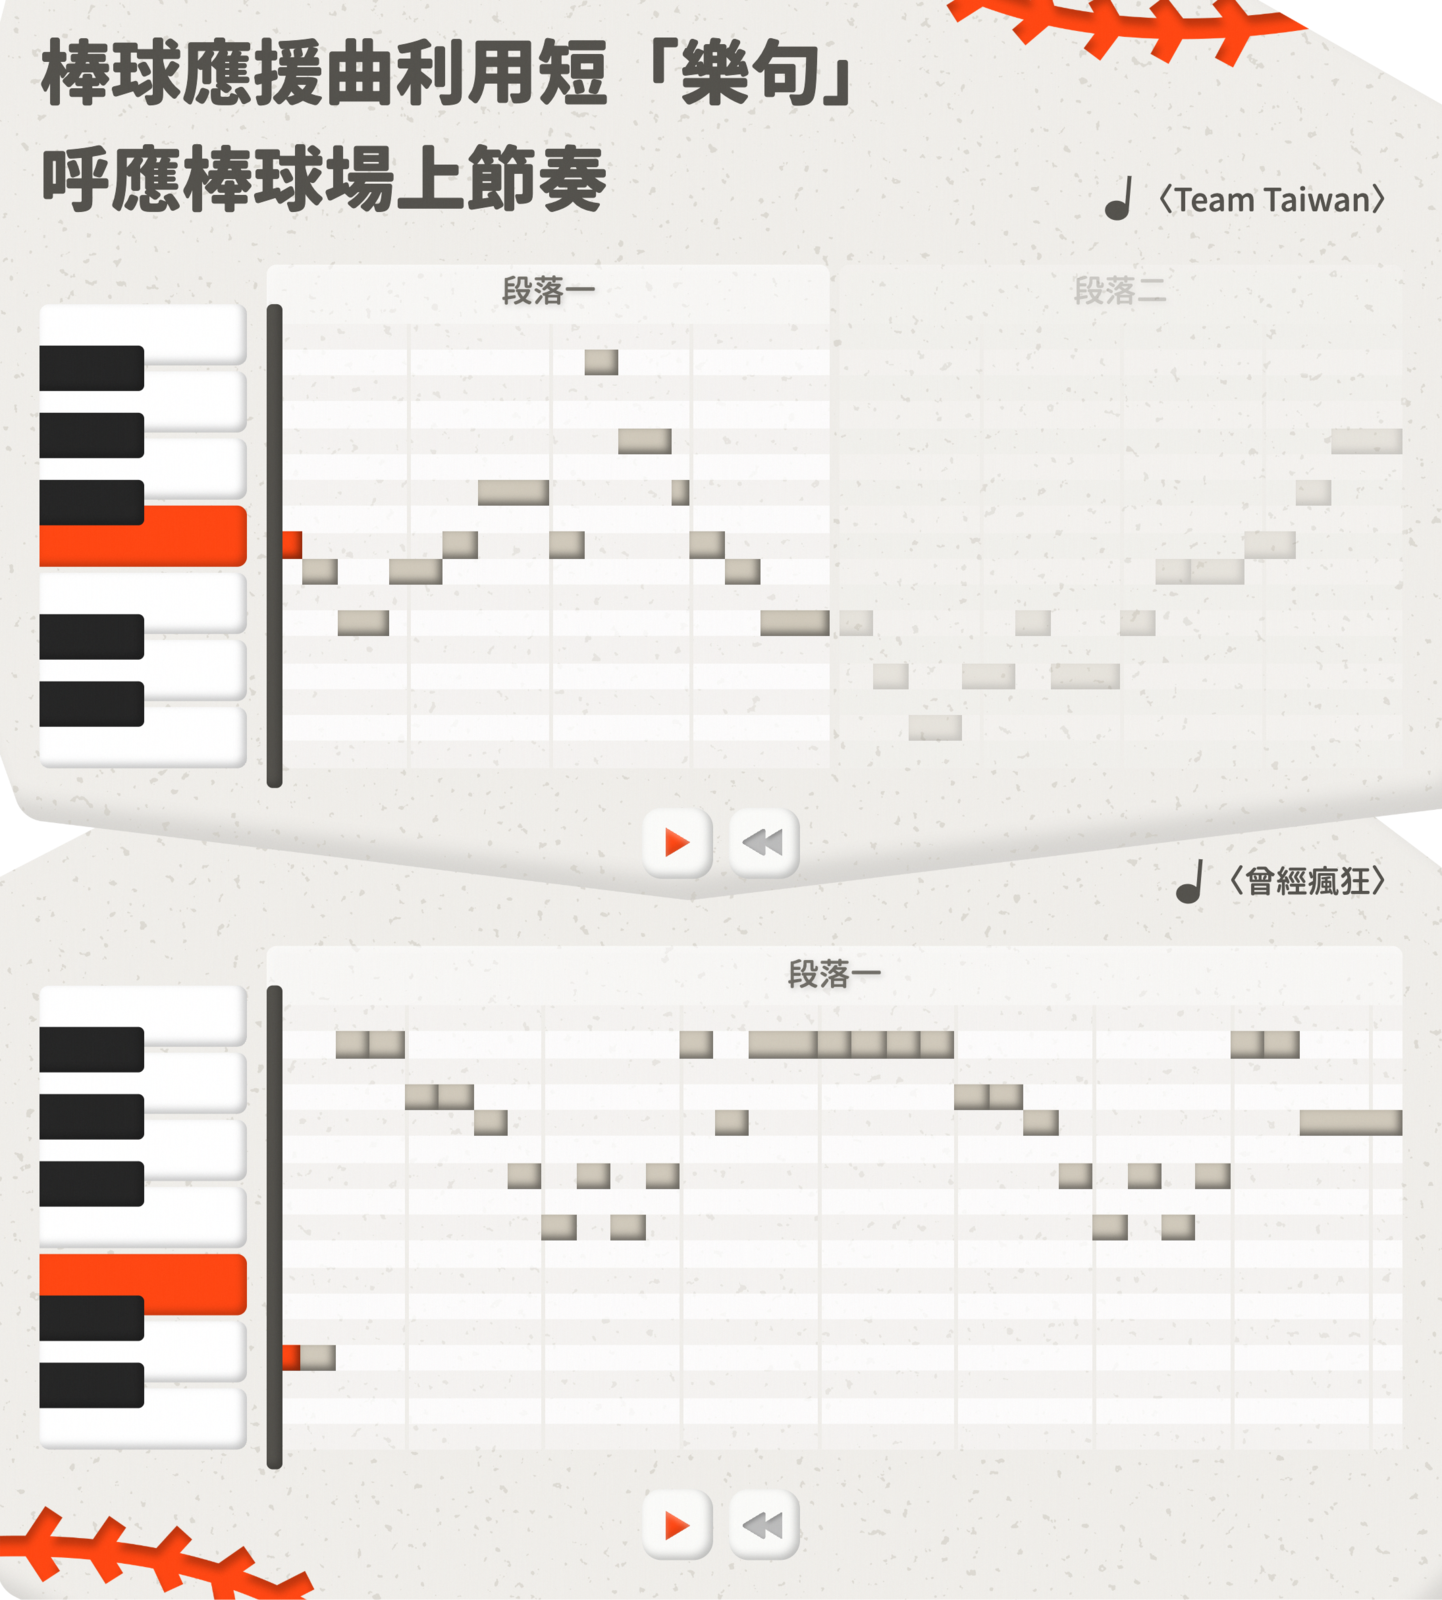
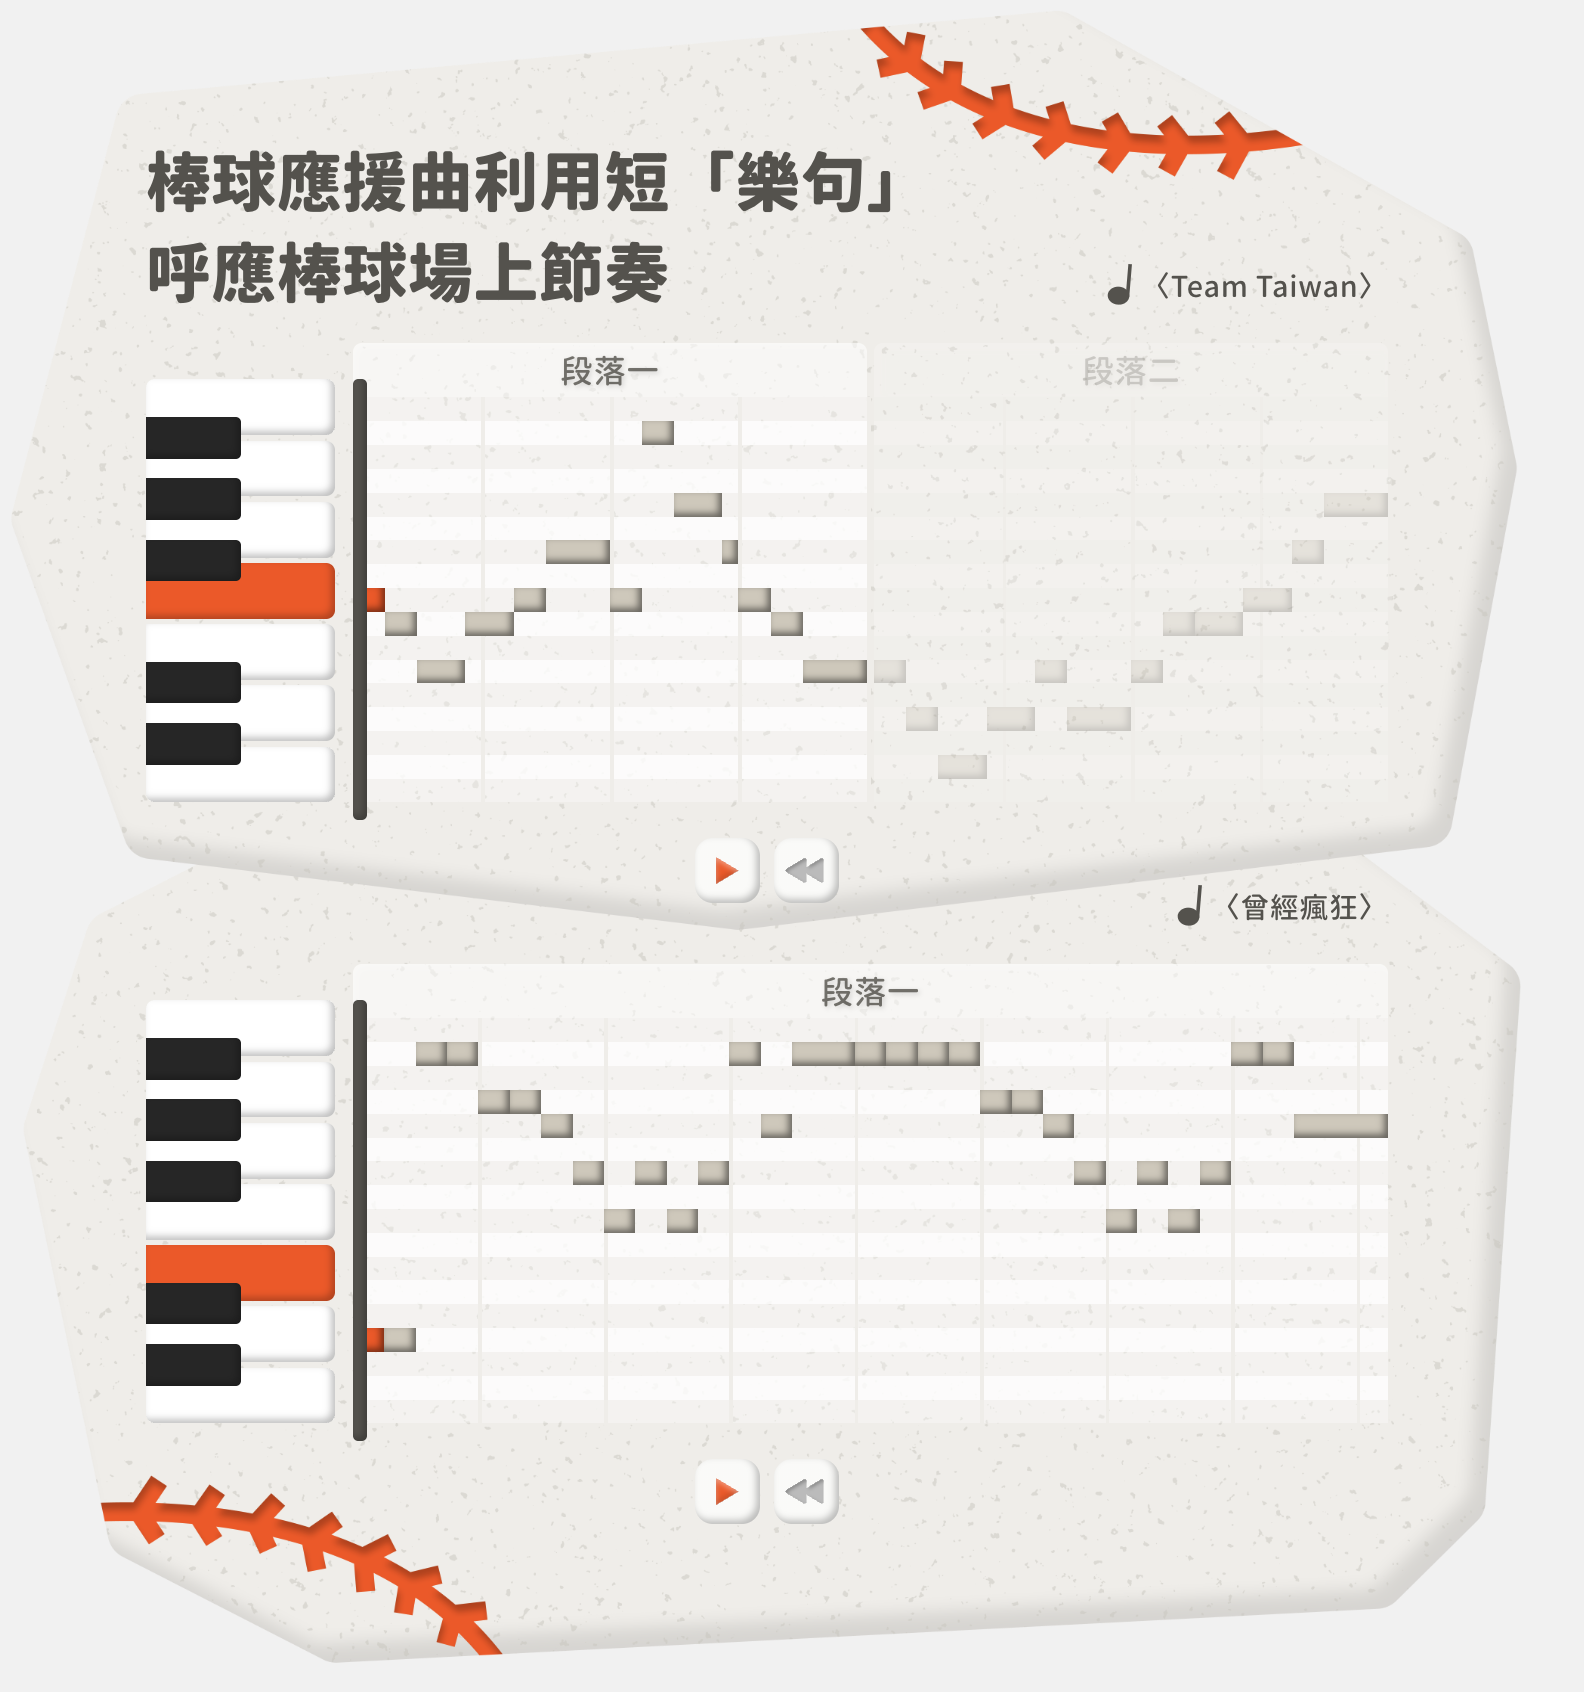
fix: wordings, grammar and copies

diff --git a/src/data/projects.ts b/src/data/projects.ts
@@ -7,7 +7,7 @@ export const projects: {
   {
     title: 'What’s wrong with the “traffic circles” in Taiwan?',
     description:
-      'I clustered millions of official accident records to recreate what failed at each roundabout, so we can build more "roundabouts", less "traffic circles".',
+      'Using the DBSCAN algorithum to cluster thousands of official accident records, I tried to recreate what goes wrong at each roundabout, so we can build more roundabouts, fewer “traffic circles”.',
     links: [
       {
         title:
@@ -31,9 +31,9 @@ export const projects: {
     imageFolder: 'roundabouts',
   },
   {
-    title: `Tracking PLA drills and Taiwan's preparedness`,
+    title: `Tracking PLA drills and Taiwan’s preparedness`,
     description:
-      "We've collected millions of AIS records and years of PLA activities around Taiwan, helping us understand what’s happening around us during those mysterious drills.",
+      'We’ve collected millions of AIS records and years of PLA activities around Taiwan, helping us rebuild the Hong Tai’s track before it cut Taiwan’s undersea cable and understand what’s happening around us during those mysterious drills.',
     links: [
       {
         title:
@@ -62,8 +62,8 @@ export const projects: {
     imageFolder: 'military',
   },
   {
-    title: `What makes a cheering song sounds "Taiwan"?`,
-    description: `An experiment to use embedding models to understand music. We've created interactive components so that plays and visualize what changes in the music's groove affect the lisening experience.`,
+    title: `What makes a cheering song sound “Taiwan”?`,
+    description: `An experiment in using embedding models to understand music. We’ve created interactive components that play audio and visualize how changes in the music’s groove affect the listening experience.`,
     links: [
       {
         title:
@@ -75,9 +75,9 @@ export const projects: {
     imageFolder: 'baseball-music',
   },
   {
-    title: `Let's all commute more safely.`,
+    title: `Let’s all commute more safely.`,
     description:
-      'Paying closer attention to our day-to-day life, from newly built, "engineering feat" bridge to your local elemetary schools.',
+      'Paying closer attention to our day-to-day life, from a newly built “engineering feat” bridge to your local elementary schools.',
     links: [
       {
         title:
@@ -108,7 +108,7 @@ export const projects: {
   {
     title: 'Investigating “remote upstream” rivers.',
     description:
-      '(not git repos) Mapping potential drinking water intakes pollution by spatial cross-matching river, nearby factories and past penalty records.',
+      '(not git repos) Mapping potential pollution of drinking water intakes by spatially cross-matching rivers, nearby factories, and past penalty records.',
     links: [
       {
         title: '你家喝的自來水從哪來？乾淨嗎？從基隆嚴重油汙事件開始的全台調查',
@@ -142,8 +142,8 @@ export const projects: {
     imageFolder: 'water-pollution',
   },
   {
-    title: `What does your phone do that you don't know?`,
-    description: `As a privacy conceus person myself, we've used mitmproxy to capture the network requests from three major mobile map apps, including Chinese "AMAP", to know what tracking information each is sending?`,
+    title: `What does your phone do that you don’t know?`,
+    description: `As a privacy-conscious person, I wanted to know what map apps send home. We ran mobile navigation apps through mitmproxy on a small roadtrip around Taipei.`,
     links: [
       {
         title:
@@ -167,8 +167,8 @@ export const projects: {
     imageFolder: 'amap',
   },
   {
-    title: 'Disaster Response Toolkit for Taiwanese Citizens',
-    description: `I've built iCanHelp app, a collection of helpful tools for disaster preparedness. Built with full-stack Next.js with native bundles using Expo.js, during my time at Forward Alliance.`,
+    title: 'A disaster response toolkit for Taiwan.',
+    description: `I built iCanHelp app, a collection of helpful tools for disaster preparedness, during my time at Forward Alliance. Full-stack Next.js with native bundles using Expo.js.`,
     links: [
       {
         title:
@@ -185,20 +185,20 @@ export const projects: {
     imageFolder: 'icanhelp',
   },
   {
-    title: 'Hackathon Project: Carbon Notebook',
-    description: `We built a microservice that help people recognize their carbon footprint and how can they save more from their daily lives, which is also embeddable within Taipei's citizen app "Town Pass," in a 24 hour hackathon and won second place.`,
+    title: 'Hackathon project: Carbon Notebook',
+    description: `In a 24-hour hackathon, we built a Town Pass microservice that estimates your carbon footprint from e-invoices and GPS and shows you how to cut it. Second place at the 2025 codefest.taipei hackathon.`,
     links: [
       {
         title: 'taipei-doit/townpass2025-carbon-notebook',
         href: 'https://github.com/taipei-doit/townpass2025-carbon-notebook',
-        meta: 'Github',
+        meta: 'GitHub',
       },
     ],
     imageFolder: 'carbon-notebook',
   },
   {
     title: 'Crunching the numbers.',
-    description: `Using extensive regex and pdf parsers to finagle local government budget documents, find out what the new fiscal law could do to the local government's fiscal independence. (This is before LLMs can actually read files and I'm still proud of my regex masterpiece.)`,
+    description: `Using extensive regex and PDF parsers to finagle local government budget documents and find out what the new fiscal law could do to local governments' fiscal independence. (This was before LLMs can actually read files and I’m still proud of my regex masterpiece.)`,
     links: [
       {
         title:
@@ -222,9 +222,9 @@ export const projects: {
     imageFolder: 'fiscal',
   },
   {
-    title: 'Understanding Taiwanese Local Politics.',
+    title: `Understanding Taiwan’s local politics.`,
     description:
-      'I helped visualize political phenomenon from political family network to village level maps for local election results.',
+      'I helped visualize political phenomena from political family networks to village-level maps for local election results.',
     links: [
       {
         title: '從林派到英系，陳明文「嘉義王」之路與派系接班隱憂',

diff --git a/src/data/cv.ts b/src/data/cv.ts
@@ -8,7 +8,7 @@ export const cv: {
     text: 'I’m a data engineer and data journalist who turns public records into maps, trackers and charts people can read.',
     items: [
       {
-        name: 'Email: e@ethanhuang.me | Github: @chingweih | Website: https://ethanhuang.me',
+        name: 'Email: e@ethanhuang.me | GitHub: @chingweih | Website: https://ethanhuang.me',
       },
     ],
   },
@@ -28,12 +28,12 @@ export const cv: {
       {
         name: 'National Chengchi University 國立政治大學',
         detail: 'Research Assistant',
-        date: '2025 Dec — 2026 June',
+        date: 'Dec 2025 — June 2026',
       },
       {
         name: 'Radio Taiwan International 中央廣播電台',
         detail: 'English Program & Web Service Team Intern',
-        date: '2022 July — Aug',
+        date: 'July — Aug 2022',
       },
     ],
   },
@@ -51,16 +51,16 @@ export const cv: {
     title: 'Skills',
     items: [
       {
-        name: 'Full-stack | Typescript with React, Expo.js, Next.js, Hono.js',
-        detail: 'Shipped full-stack PWA and native app bundle',
+        name: 'Full-stack | TypeScript with React, Expo, Next.js, Hono',
+        detail: 'Shipped a full-stack PWA and native app bundles',
       },
       {
-        name: 'Interactive | Svelte.js with Web Components',
+        name: 'Interactive | Svelte with Web Components',
         detail: 'Embedded interactive graphics inside news articles',
       },
       {
         name: 'Data & Infra | Python with FastAPI, BigQuery, QGIS',
-        detail: 'Building crawler databases and data analysis',
+        detail: 'Built crawlers, databases, and analysis pipelines',
       },
     ],
   },
